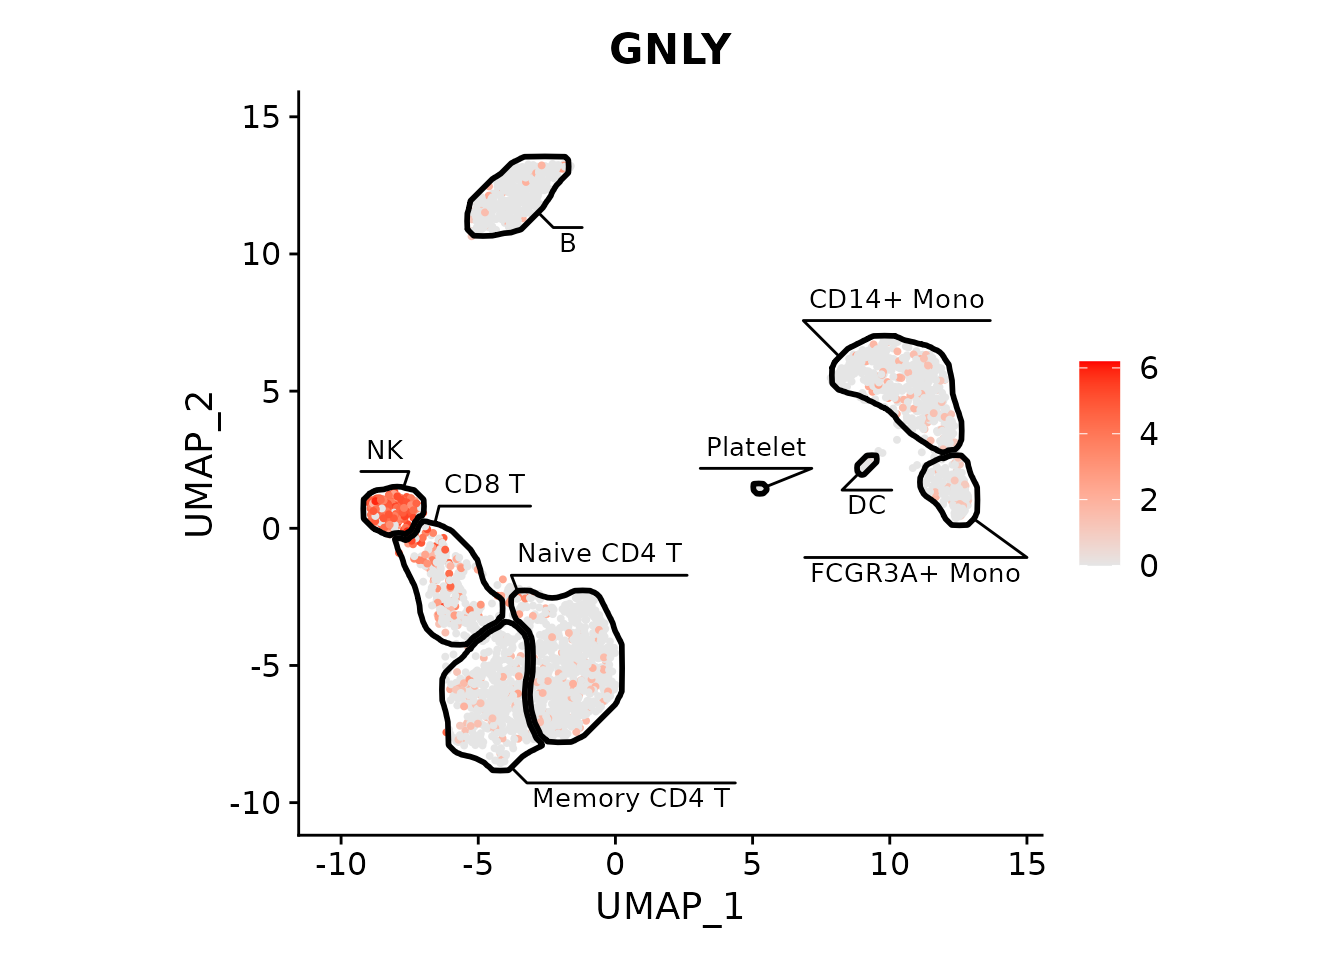
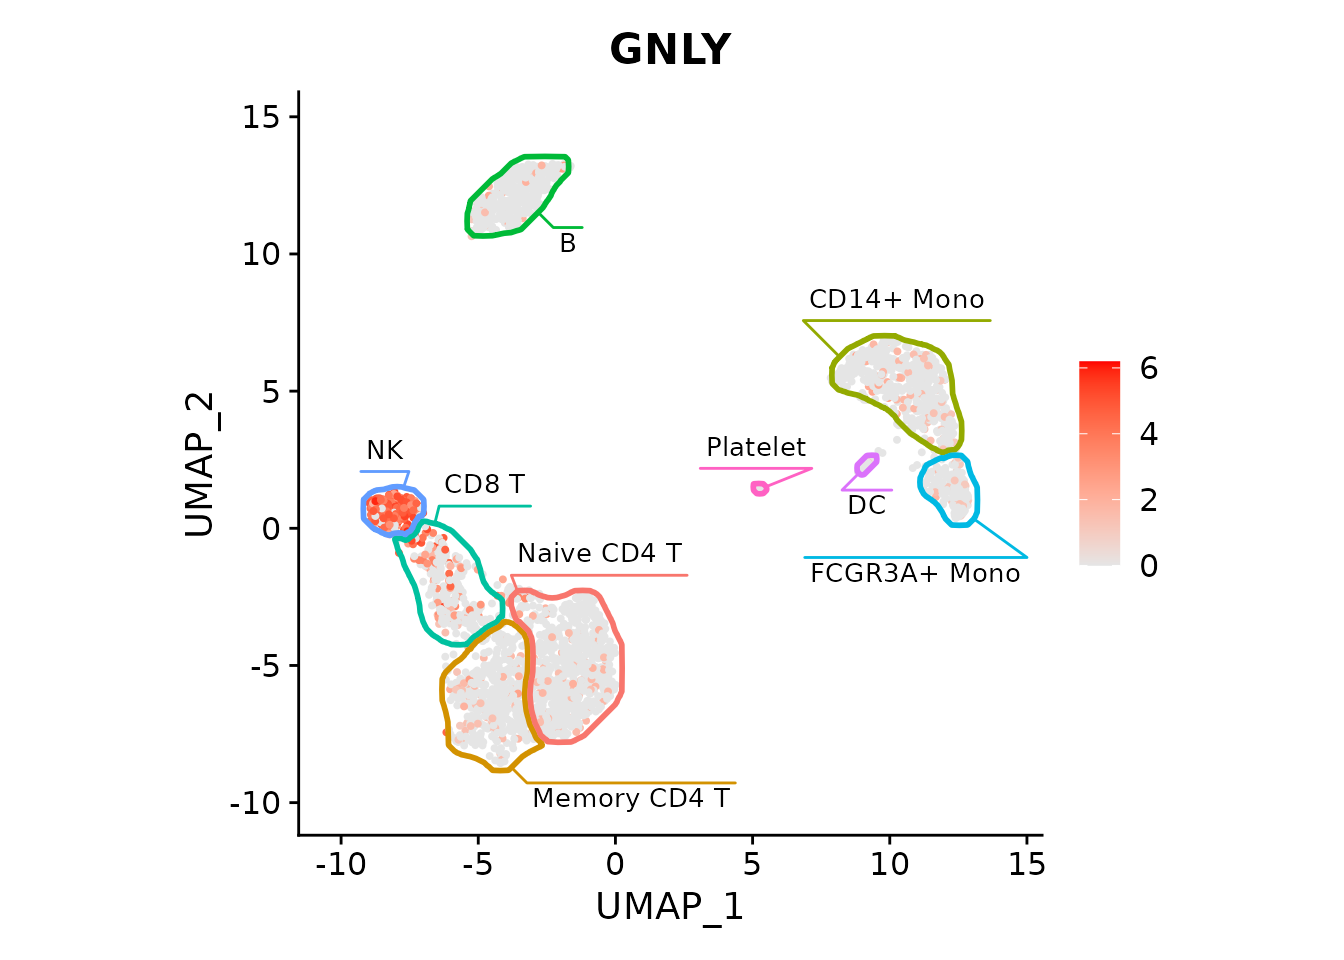
Deploying to gh-pages from @ alserglab/mascarade@0cc36876a1789a8c5a13c5e8bbde9d35385b5b87 🚀

diff --git a/reference/fancyMask.html b/reference/fancyMask.html
@@ -62,7 +62,7 @@ extra room for labels.</p>
 <span>  limits.expand <span class="op">=</span> <span class="fu"><a href="https://rdrr.io/r/base/ifelse.html" class="external-link">ifelse</a></span><span class="op">(</span><span class="va">label</span>, <span class="fl">0.1</span>, <span class="fl">0.05</span><span class="op">)</span>,</span>
 <span>  linewidth <span class="op">=</span> <span class="fl">1</span>,</span>
 <span>  shape.expand <span class="op">=</span> <span class="va">linewidth</span> <span class="op">*</span> <span class="fu"><a href="https://rdrr.io/r/grid/unit.html" class="external-link">unit</a></span><span class="op">(</span><span class="op">-</span><span class="fl">1</span>, <span class="st">"pt"</span><span class="op">)</span>,</span>
-<span>  cols <span class="op">=</span> <span class="st">"inherit"</span>,</span>
+<span>  cols <span class="op">=</span> <span class="st">"auto"</span>,</span>
 <span>  label <span class="op">=</span> <span class="cn">TRUE</span>,</span>
 <span>  label.largest <span class="op">=</span> <span class="cn">TRUE</span>,</span>
 <span>  label.fontsize <span class="op">=</span> <span class="fl">10</span>,</span>
@@ -106,10 +106,16 @@ passed to <code>geom_mark_shape(expand = ...)</code>. Default is
 
 
 <dt id="arg-cols">cols<a class="anchor" aria-label="anchor" href="#arg-cols"></a></dt>
-<dd><p>Color specification for cluster outlines (and labels). One of:</p><ul><li><p><code>"inherit"</code> (default) — inherits colors from the discrete color scale
-of the plot that <code>fancyMask()</code> is added to (e.g., from
-<code><a href="https://ggplot2.tidyverse.org/reference/scale_manual.html" class="external-link">scale_color_manual()</a></code>). Falls back to black if no discrete color
-scale is found.</p></li>
+<dd><p>Color specification for cluster outlines (and labels). One of:</p><ul><li><p><code>"auto"</code> (default) — inspects the plot at the time <code>fancyMask()</code> is
+added with <code>+</code>. If a layer maps <code>colour</code> to a discrete (non-numeric)
+variable, the mask joins that scale via <code>aes(colour = cluster)</code> so
+colours stay in sync regardless of <code>scale_color_*()</code> order. Otherwise
+(continuous colour, constant colour, or no colour aesthetic) explicit
+colours from <code><a href="https://scales.r-lib.org/reference/pal_hue.html" class="external-link">scales::hue_pal()</a></code> are baked in and the plot's scale
+system is left untouched.</p></li>
+<li><p><code>"inherit"</code> — always maps <code>colour</code> as an aesthetic (<code>aes(colour = cluster)</code>), unconditionally joining whatever colour scale is present.
+Useful when you want to force scale sharing; will error if the existing
+scale is continuous.</p></li>
 <li><p>A palette function that accepts a single integer <code>n</code> and returns <code>n</code>
 colors (e.g., <code><a href="https://scales.r-lib.org/reference/pal_hue.html" class="external-link">scales::hue_pal()</a></code>, <code>rainbow</code>).</p></li>
 <li><p>A single color string — applied to every cluster.</p></li>
@@ -164,8 +170,7 @@ set to <code>0</code> to disable. Default is <code>0.001</code>.</p></dd>
     <h2 id="value">Value<a class="anchor" aria-label="anchor" href="#value"></a></h2>
     <p>A list of ggplot2 components suitable for adding to a plot with <code>+</code>,
 containing a <code><a href="https://ggplot2.tidyverse.org/reference/coord_cartesian.html" class="external-link">ggplot2::coord_cartesian()</a></code> specification and a
-<code><a href="geom_mark_shape.html">geom_mark_shape()</a></code> layer. When <code>cols = "inherit"</code>, returns an
-opaque object whose colors are resolved when added to a plot.</p>
+<code><a href="geom_mark_shape.html">geom_mark_shape()</a></code> layer.</p>
     </div>
     <div class="section level2">
     <h2 id="details">Details<a class="anchor" aria-label="anchor" href="#details"></a></h2>

diff --git a/reference/fancyMask.md b/reference/fancyMask.md
@@ -13,7 +13,7 @@ fancyMask(
   limits.expand = ifelse(label, 0.1, 0.05),
   linewidth = 1,
   shape.expand = linewidth * unit(-1, "pt"),
-  cols = "inherit",
+  cols = "auto",
   label = TRUE,
   label.largest = TRUE,
   label.fontsize = 10,
@@ -61,10 +61,19 @@ fancyMask(
 
   Color specification for cluster outlines (and labels). One of:
 
-  - `"inherit"` (default) — inherits colors from the discrete color
-    scale of the plot that `fancyMask()` is added to (e.g., from
-    [`scale_color_manual()`](https://ggplot2.tidyverse.org/reference/scale_manual.html)).
-    Falls back to black if no discrete color scale is found.
+  - `"auto"` (default) — inspects the plot at the time `fancyMask()` is
+    added with `+`. If a layer maps `colour` to a discrete (non-numeric)
+    variable, the mask joins that scale via `aes(colour = cluster)` so
+    colours stay in sync regardless of `scale_color_*()` order.
+    Otherwise (continuous colour, constant colour, or no colour
+    aesthetic) explicit colours from
+    [`scales::hue_pal()`](https://scales.r-lib.org/reference/pal_hue.html)
+    are baked in and the plot's scale system is left untouched.
+
+  - `"inherit"` — always maps `colour` as an aesthetic
+    (`aes(colour = cluster)`), unconditionally joining whatever colour
+    scale is present. Useful when you want to force scale sharing; will
+    error if the existing scale is continuous.
 
   - A palette function that accepts a single integer `n` and returns `n`
     colors (e.g.,
@@ -130,8 +139,7 @@ containing a
 [`ggplot2::coord_cartesian()`](https://ggplot2.tidyverse.org/reference/coord_cartesian.html)
 specification and a
 [`geom_mark_shape()`](https://alserglab.github.io/mascarade/reference/geom_mark_shape.md)
-layer. When `cols = "inherit"`, returns an opaque object whose colors
-are resolved when added to a plot.
+layer.
 
 ## Details
 
